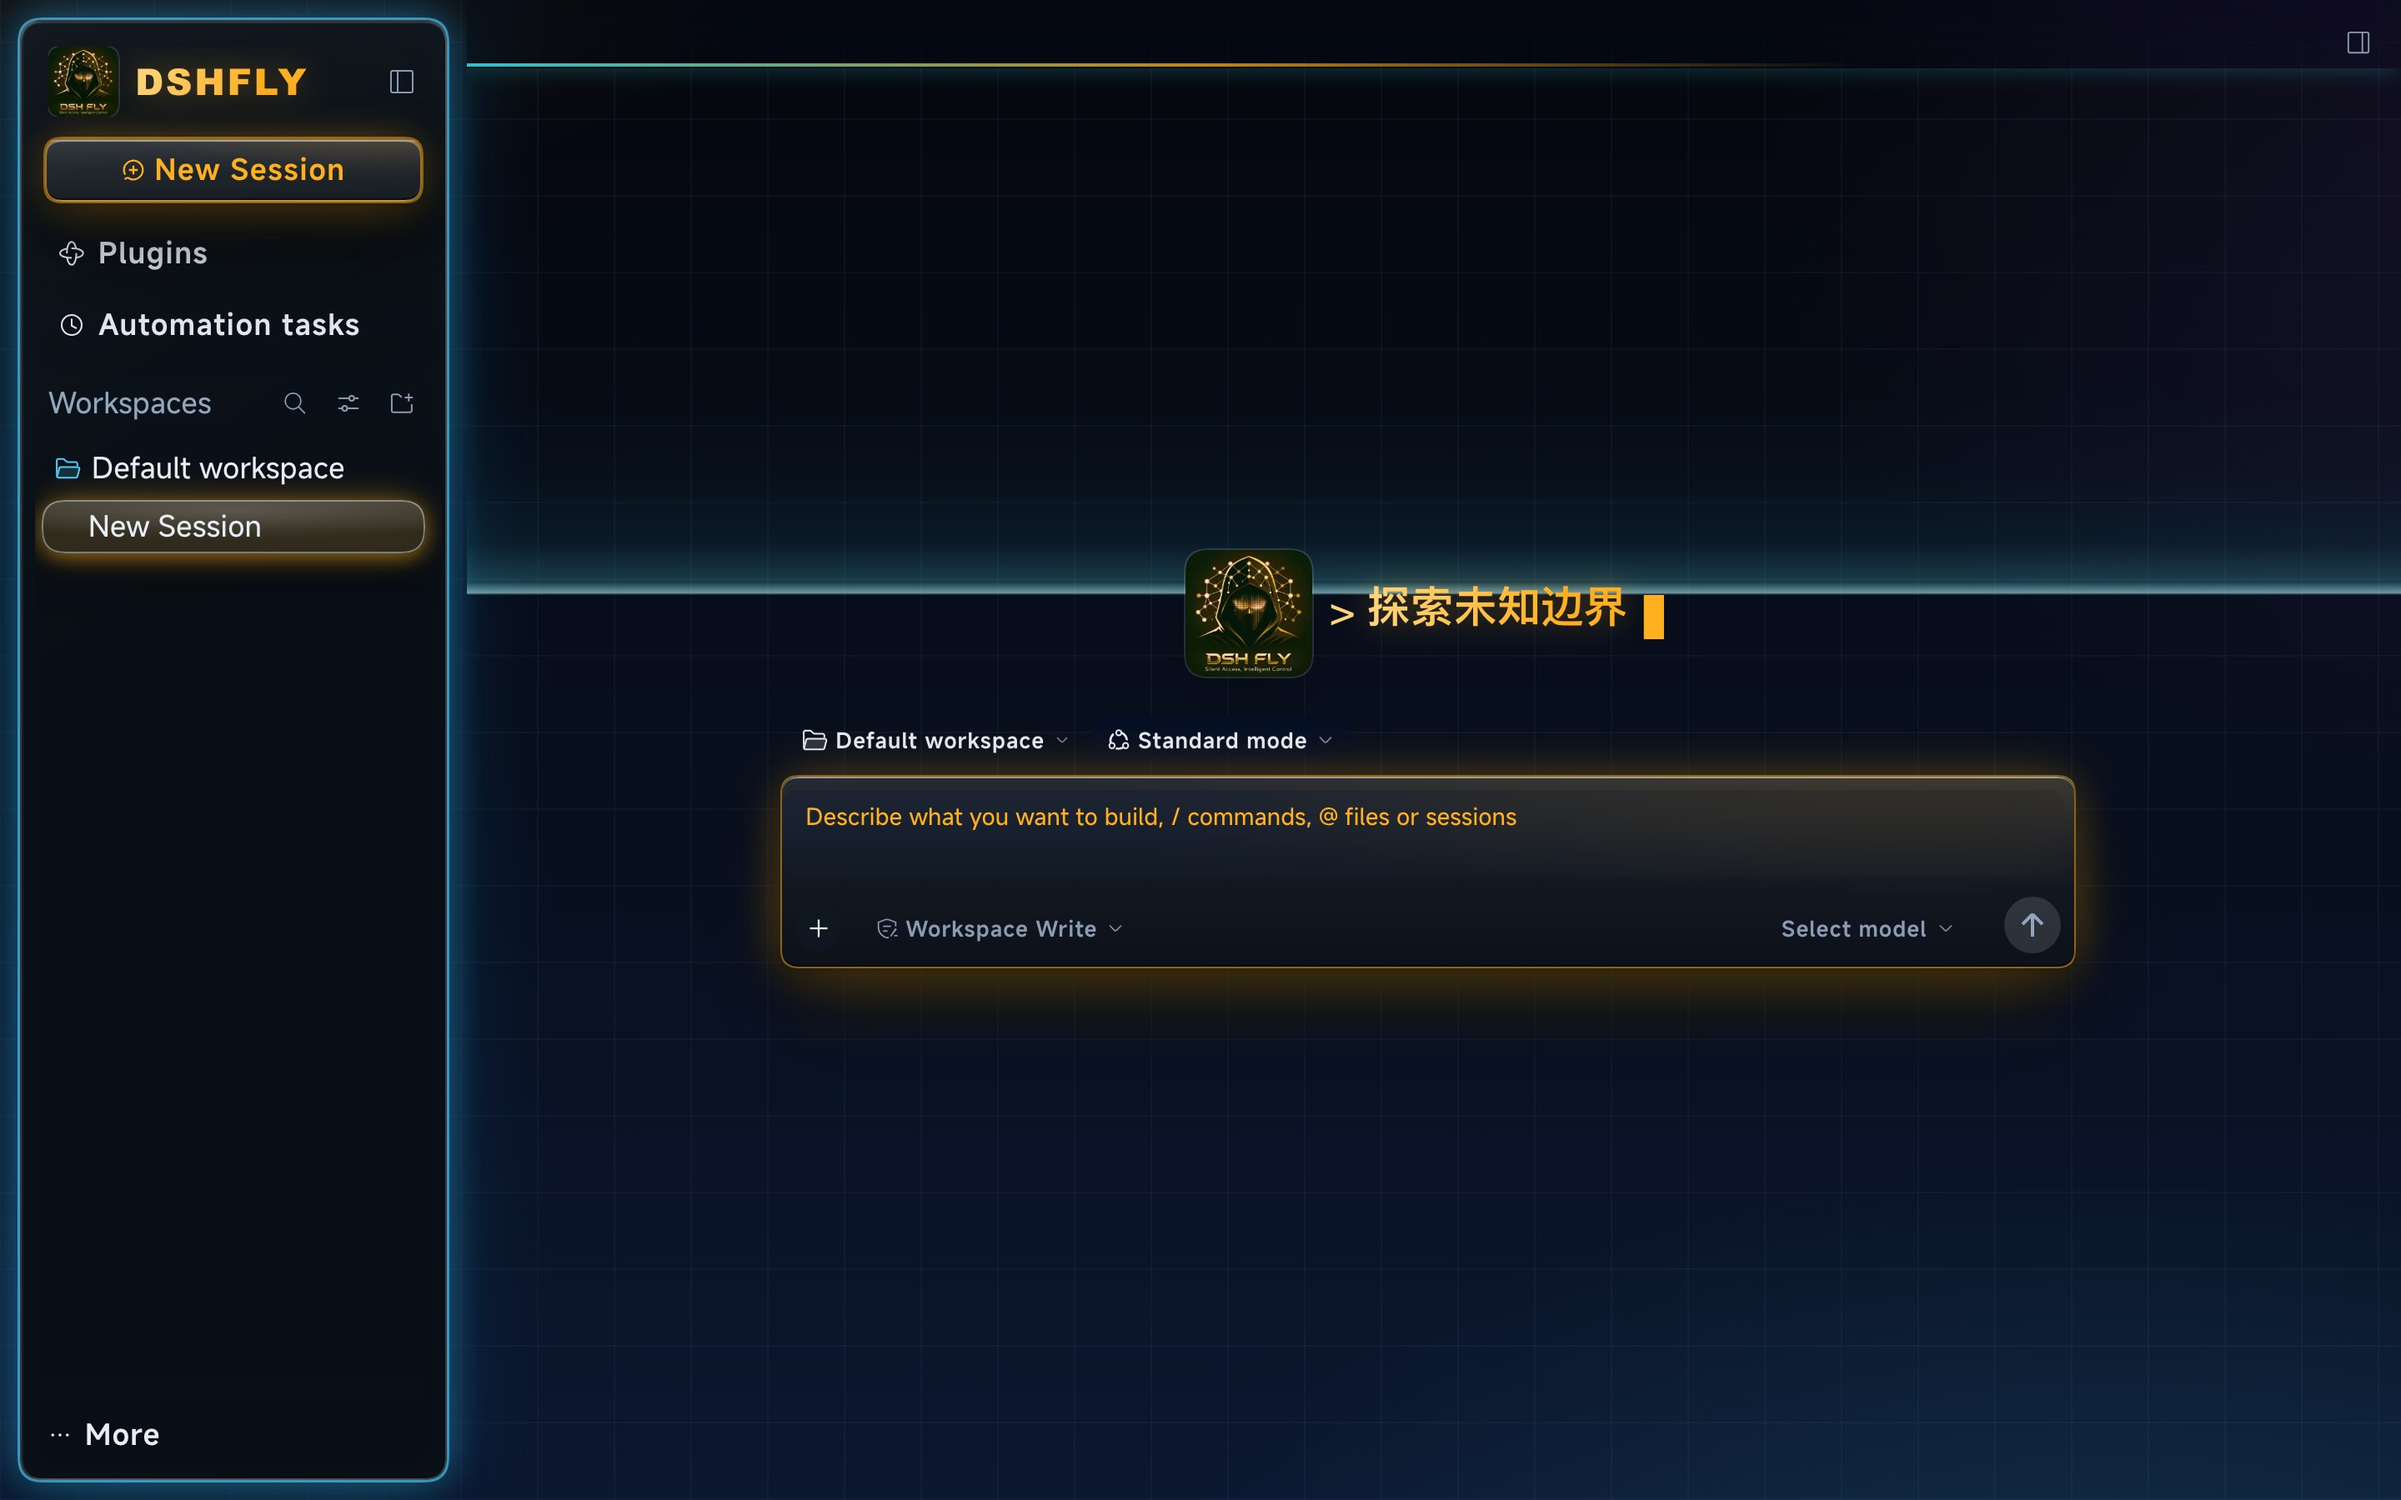
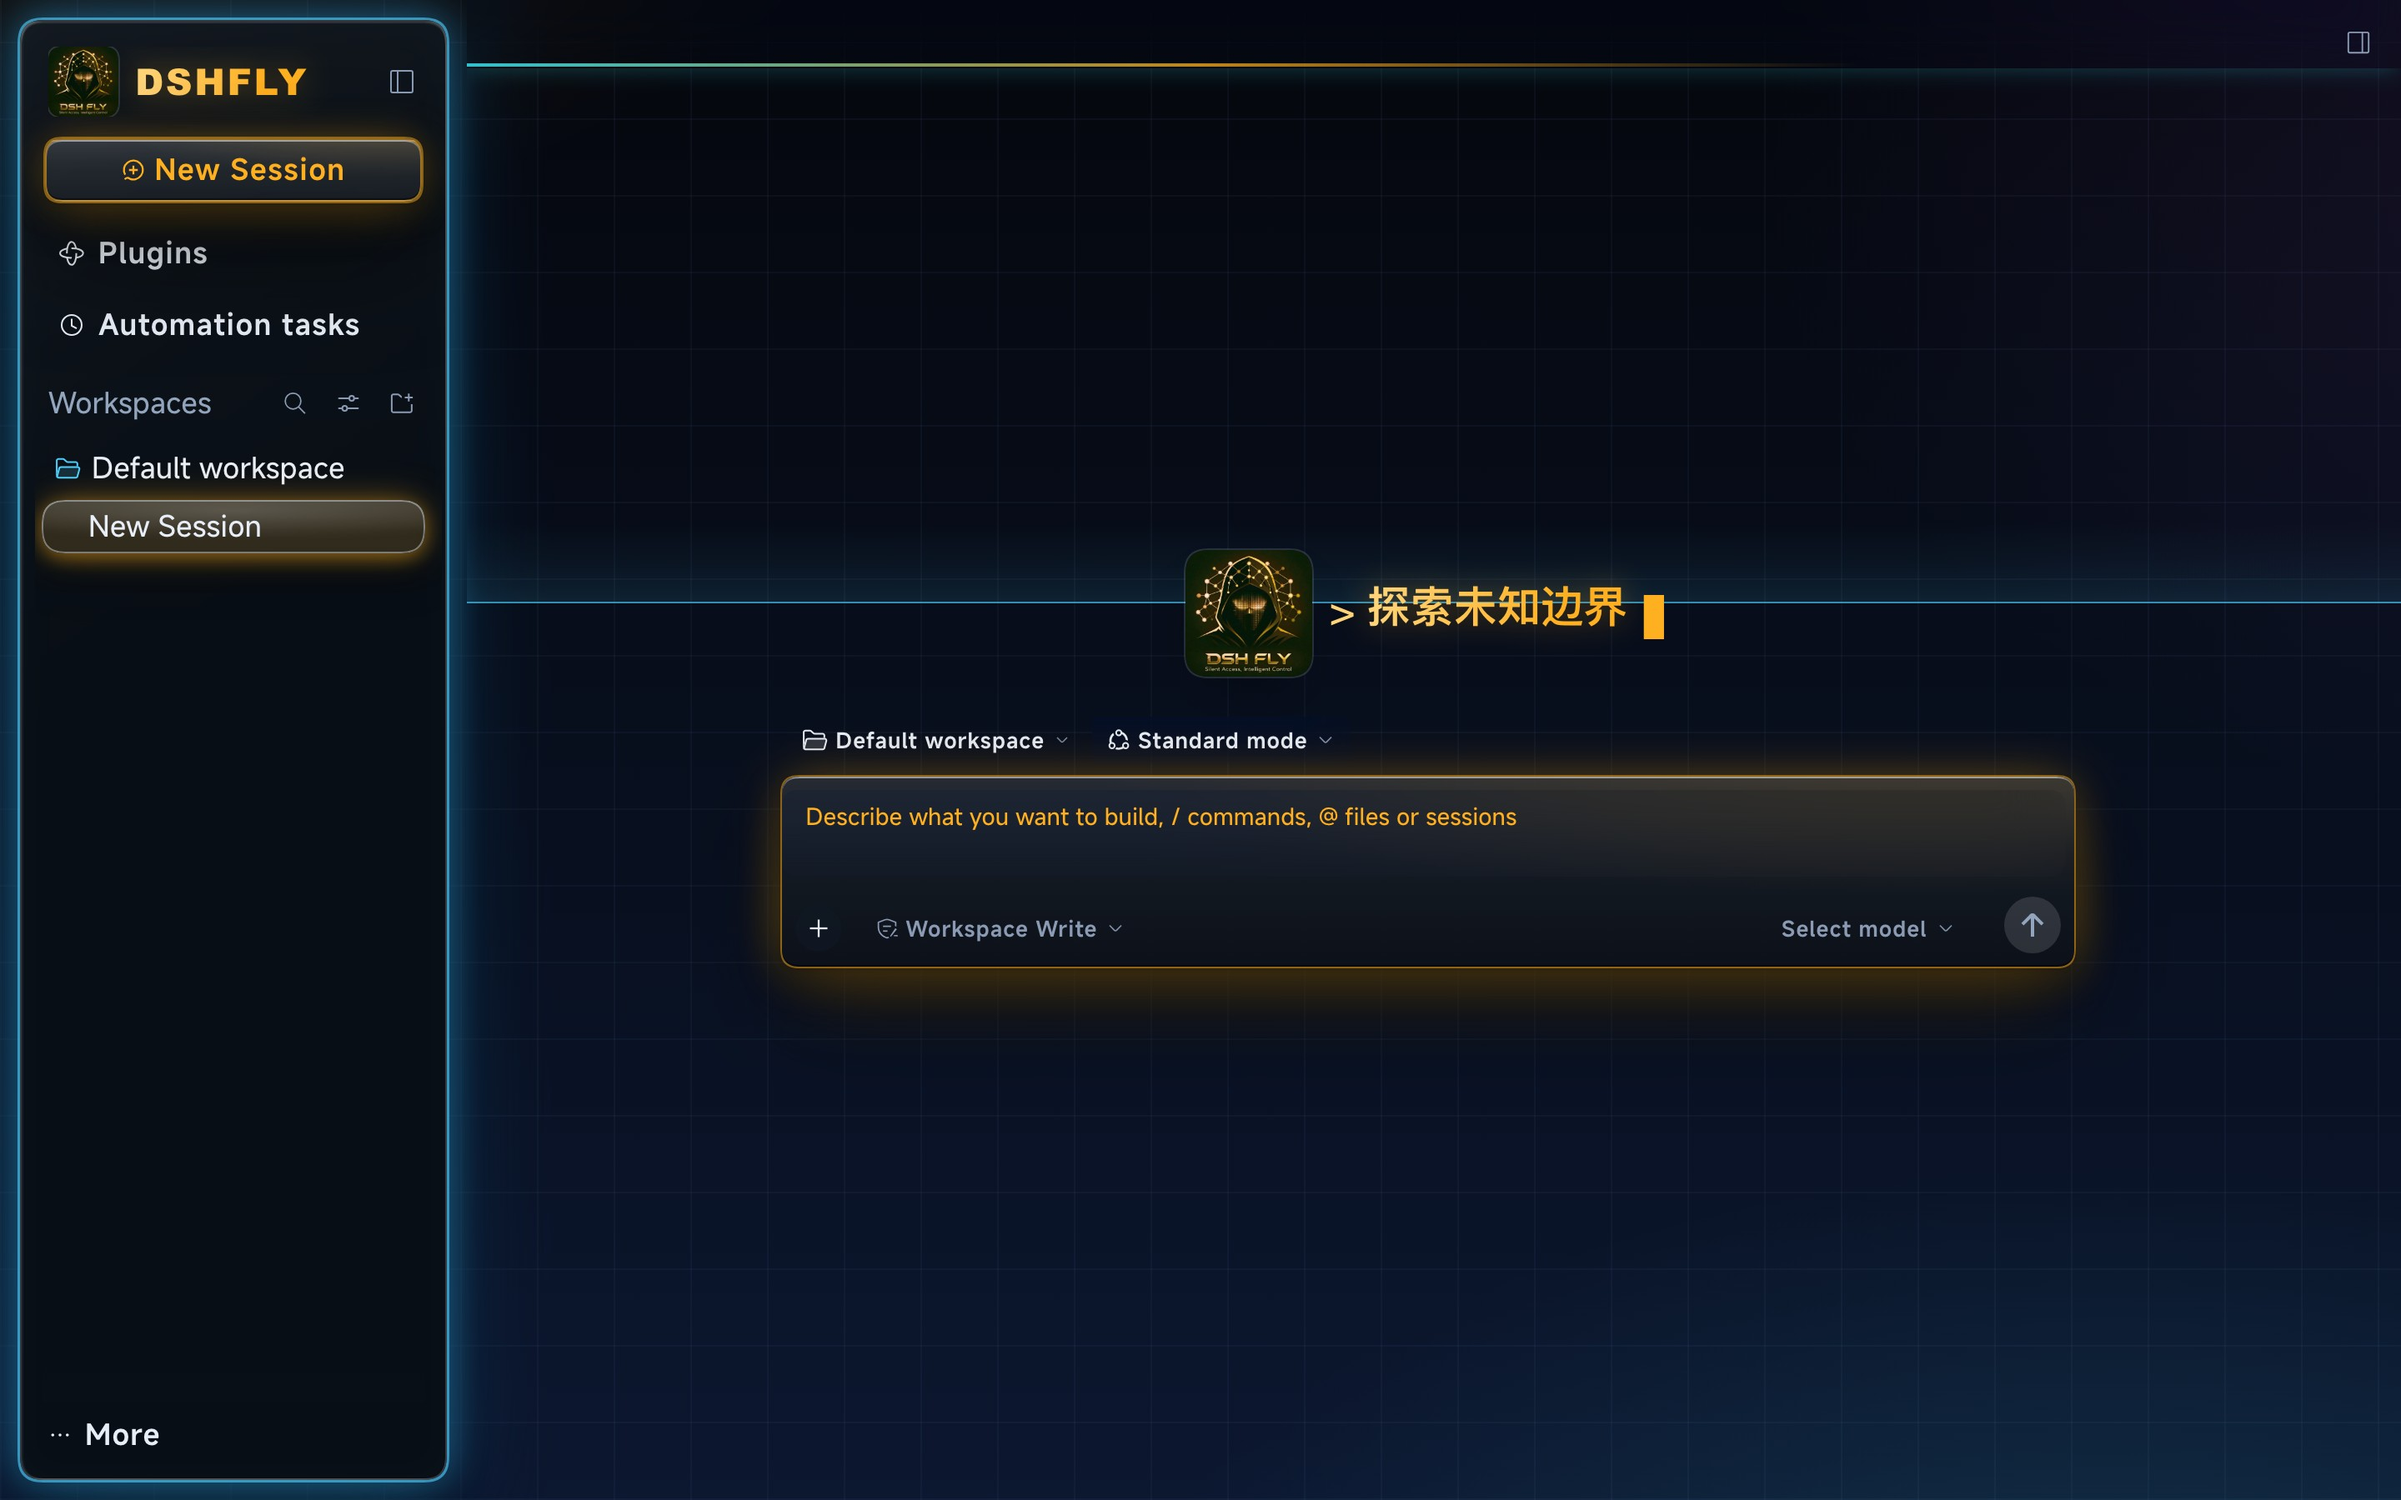
fix(neon): 扫描线收成 1px 并与 Todo 卡同色（0.2.1）
真机判词：太粗；和 Todo 卡边框的青光不是一个颜色。

- 220px 渐变尾迹拆成 1px 实心层 + 48px 尾迹；实心层直接取
  --dsw-specific-fly-glow-ring（Todo 卡 1.5px 边框的同一颗 token），
  尾迹用同 token 的 color-mix；删掉 175,248,255 / 53,211,224 的自造色。
- 实测线芯 2 个设备像素（DPR2）= 1 CSS px；luma 剖面 2 行过 50%
  对比；计算样式 size=100% 1px, 100% 48px，颜色 rgba(77,208,255,.62)。
- verify shell 730/730；像素 A/B 113.5 / 0.0；新增尺寸与 token 断言。

Changed region(s): [[0.5312, 0.3733, 1.0, 0.4044], [0.1875, 0.3733, 0.5, 0.4044]]

diff --git a/lib/client.js b/lib/client.js
@@ -1,5 +1,5 @@
 /* @dsh-fly/dsh-plugin-fly-skins — browser half, built by scripts/build-plugin-client.mjs.
- * src-hash: da3566d1bd045aceed999d4d35b12211eb65471ec968f951242ccdd88d0f9941
+ * src-hash: 31b9bf653d6d6faf7d76cf6658a27c1a0ca7c38ecc4acf269fd7a5a2319c5789
  * Factory-form CJS: the loader calls the factory with its platform `require`
  * and memoizes the returned exports. Keep the banner so the loader id and the
  * package that produced the bundle stay greppable in a live page. */
@@ -965,26 +965,29 @@ html[data-fly-palette='neon'] [class*='centerCol']  {
    线画在中列根节点的 background 上，也就是消息与卡片的**下面** —— 它扫过文字时
    不会糊字。只做深色半区：浅色白底上扫线会显脏；prefers-reduced-motion 与小屏
    一律关闭。
+   2026-10-21 用户真机判词：太粗，而且和 Todo 卡边框的青光不是一个颜色。修法：
+   线拆成 1px 实心层，颜色直接取 Todo 卡同款的 --dsw-specific-fly-glow-ring；
+   尾迹也用同一颗 token 的 color-mix，不再自造 175,248,255 / 53,211,224。尾迹从
+   220px 收到 48px、亮度压到 6%→18%，读起来是发丝而不是光带。
    选择器与上面「中列/右列 _root 退成透明」那条同形，但只取 centerCol；声明在
    后面，所以它盖过同一元素上的 background-image: none。 */
 html[data-fly-palette='neon'] body[data-ds-dark-theme] [class*='centerCol'] [class$='_root']:not([class$='_root'] [class$='_root'], [class*='_root '] [class$='_root'], [class$='_root'] [class*='_root '], [class*='_root '] [class*='_root ']),
 html[data-fly-palette='neon'] body[data-ds-dark-theme] [class*='centerCol'] [class*='_root ']:not([class$='_root'] [class$='_root'], [class*='_root '] [class$='_root'], [class$='_root'] [class*='_root '], [class*='_root '] [class*='_root '])  {
-  background-image: linear-gradient(180deg,
-    rgba(53, 211, 224, 0) 0%,
-    rgba(53, 211, 224, 0) 44%,
-    rgba(53, 211, 224, 0.018) 68%,
-    rgba(53, 211, 224, 0.07) 86%,
-    rgba(90, 225, 245, 0.22) 96.5%,
-    rgba(175, 248, 255, 0.58) 99.4%,
-    rgba(175, 248, 255, 0) 100%);
-  background-size: 100% 220px;
-  background-repeat: no-repeat;
-  background-position: 0 -240px;
+  background-image:
+    linear-gradient(180deg, var(--dsw-specific-fly-glow-ring), var(--dsw-specific-fly-glow-ring)),
+    linear-gradient(180deg,
+      transparent 0%,
+      color-mix(in srgb, var(--dsw-specific-fly-glow-ring) 6%, transparent) 45%,
+      color-mix(in srgb, var(--dsw-specific-fly-glow-ring) 12%, transparent) 78%,
+      color-mix(in srgb, var(--dsw-specific-fly-glow-ring) 18%, transparent) 100%);
+  background-size: 100% 1px, 100% 48px;
+  background-repeat: no-repeat, no-repeat;
+  background-position: 0 -1px, 0 -48px;
   animation: fly-neon-scan 16s linear infinite;
 }
 @keyframes fly-neon-scan {
-  0%, 7% { background-position: 0 -240px; }
-  93%, 100% { background-position: 0 calc(100% + 20px); }
+  0%, 7% { background-position: 0 -1px, 0 -48px; }
+  93%, 100% { background-position: 0 calc(100% + 2px), 0 calc(100% + 2px); }
 }
 @media (prefers-reduced-motion: reduce) {
   html[data-fly-palette='neon'] body[data-ds-dark-theme] [class*='centerCol'] [class$='_root']:not([class$='_root'] [class$='_root'], [class*='_root '] [class$='_root'], [class$='_root'] [class*='_root '], [class*='_root '] [class*='_root ']),

diff --git a/src/client/styles.ts b/src/client/styles.ts
@@ -995,26 +995,29 @@ html[data-fly-palette='neon'] [class*='centerCol']  {
    线画在中列根节点的 background 上，也就是消息与卡片的**下面** —— 它扫过文字时
    不会糊字。只做深色半区：浅色白底上扫线会显脏；prefers-reduced-motion 与小屏
    一律关闭。
+   2026-10-21 用户真机判词：太粗，而且和 Todo 卡边框的青光不是一个颜色。修法：
+   线拆成 1px 实心层，颜色直接取 Todo 卡同款的 --dsw-specific-fly-glow-ring；
+   尾迹也用同一颗 token 的 color-mix，不再自造 175,248,255 / 53,211,224。尾迹从
+   220px 收到 48px、亮度压到 6%→18%，读起来是发丝而不是光带。
    选择器与上面「中列/右列 _root 退成透明」那条同形，但只取 centerCol；声明在
    后面，所以它盖过同一元素上的 background-image: none。 */
 html[data-fly-palette='neon'] body[data-ds-dark-theme] [class*='centerCol'] [class$='_root']:not([class$='_root'] [class$='_root'], [class*='_root '] [class$='_root'], [class$='_root'] [class*='_root '], [class*='_root '] [class*='_root ']),
 html[data-fly-palette='neon'] body[data-ds-dark-theme] [class*='centerCol'] [class*='_root ']:not([class$='_root'] [class$='_root'], [class*='_root '] [class$='_root'], [class$='_root'] [class*='_root '], [class*='_root '] [class*='_root '])  {
-  background-image: linear-gradient(180deg,
-    rgba(53, 211, 224, 0) 0%,
-    rgba(53, 211, 224, 0) 44%,
-    rgba(53, 211, 224, 0.018) 68%,
-    rgba(53, 211, 224, 0.07) 86%,
-    rgba(90, 225, 245, 0.22) 96.5%,
-    rgba(175, 248, 255, 0.58) 99.4%,
-    rgba(175, 248, 255, 0) 100%);
-  background-size: 100% 220px;
-  background-repeat: no-repeat;
-  background-position: 0 -240px;
+  background-image:
+    linear-gradient(180deg, var(--dsw-specific-fly-glow-ring), var(--dsw-specific-fly-glow-ring)),
+    linear-gradient(180deg,
+      transparent 0%,
+      color-mix(in srgb, var(--dsw-specific-fly-glow-ring) 6%, transparent) 45%,
+      color-mix(in srgb, var(--dsw-specific-fly-glow-ring) 12%, transparent) 78%,
+      color-mix(in srgb, var(--dsw-specific-fly-glow-ring) 18%, transparent) 100%);
+  background-size: 100% 1px, 100% 48px;
+  background-repeat: no-repeat, no-repeat;
+  background-position: 0 -1px, 0 -48px;
   animation: fly-neon-scan 16s linear infinite;
 }
 @keyframes fly-neon-scan {
-  0%, 7% { background-position: 0 -240px; }
-  93%, 100% { background-position: 0 calc(100% + 20px); }
+  0%, 7% { background-position: 0 -1px, 0 -48px; }
+  93%, 100% { background-position: 0 calc(100% + 2px), 0 calc(100% + 2px); }
 }
 @media (prefers-reduced-motion: reduce) {
   html[data-fly-palette='neon'] body[data-ds-dark-theme] [class*='centerCol'] [class$='_root']:not([class$='_root'] [class$='_root'], [class*='_root '] [class$='_root'], [class$='_root'] [class*='_root '], [class*='_root '] [class*='_root ']),

diff --git a/README.md b/README.md
@@ -57,15 +57,16 @@ It works standalone: install the skin without the Fly workbench and you get the 
 Fly colours; install the workbench without the skin and you get the official look plus the
 workbench.
 
-## Neon scanline and typography (0.2.0)
+## Neon scanline and typography (0.2.0, refined in 0.2.1)
 
-The neon dark half carries a slow **one-way scanline**: a 1px cyan laser with a soft tail, painted
+The neon dark half carries a slow **one-way scanline**: a **1px** laser using the same
+`--dsw-specific-fly-glow-ring` as the Todo card's cyan border, with a 48px tail, painted
 on the centre column's background — i.e. *behind* messages and cards, so it never washes over text.
 It sweeps for about 16 seconds, holds offscreen at both ends, and restarts invisibly. The light half
 does not scan (a moving line on a white field reads as dirt), and the layer is removed entirely under
 `prefers-reduced-motion: reduce` and on screens at or below 768px.
 
-**霓虹深色半区新增一条单向扫描线**：1px 青色激光 + 柔尾迹，画在中列背景、消息与卡片的**下面**；
+**霓虹深色半区新增一条单向扫描线**：1px 激光（与 Todo 卡边框同一颗青光 token）+ 48px 柔尾迹，画在中列背景、消息与卡片的**下面**；
 约 16 秒扫完一程，两端在屏外静默后重播。浅色半区不扫（白底上会显脏），
 `prefers-reduced-motion` 与 ≤768px 小屏自动关闭。
 

diff --git a/docs/maintainers.md b/docs/maintainers.md
@@ -139,7 +139,7 @@ changes arrive as PRs). `dsh-fly` finds it through its own `plugins.lock.json`:
 
 ```jsonc
 // dsh-fly/plugins.lock.json
-{ "plugins": { "@dsh-fly/dsh-plugin-fly-skins": { "repo": "…", "version": "0.2.0", "path": "dsh-plugin-fly-skins", "sha": "…" } } }
+{ "plugins": { "@dsh-fly/dsh-plugin-fly-skins": { "repo": "…", "version": "0.2.1", "path": "dsh-plugin-fly-skins", "sha": "…" } } }
 ```
 
 | What that side does | Through what |
